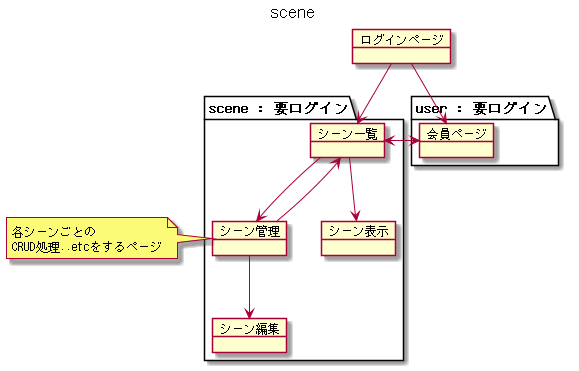
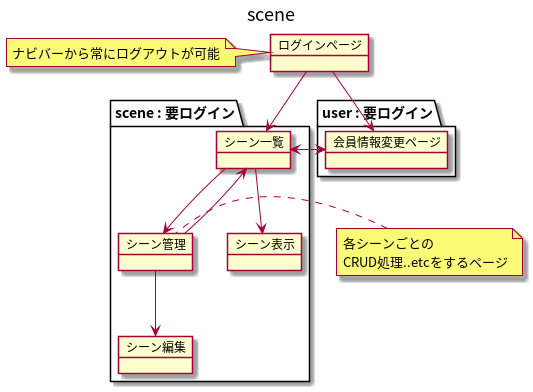
[change] #272 #273 @1h 画面遷移を変更

diff --git a/uml/src/sceen-transition-diagram/index.md b/uml/src/sceen-transition-diagram/index.md
@@ -4,8 +4,5 @@
 ## 全体
 ![main](images/screen-transition-diagram/main.png)
 
-## userアプリケーション
-![user](images/screen-transition-diagram/user.png)
-
 ## sceneアプリケーション
 ![scene](./images/screen-transition-diagram/scene.png)

diff --git a/uml/uml.md b/uml/uml.md
@@ -1,5 +1,4 @@
 UML図
 ===
 
-* [画面遷移図](./screen-transition-diagram.md)
-
+* [画面遷移図](./screen-transition-diagram/index.md)
